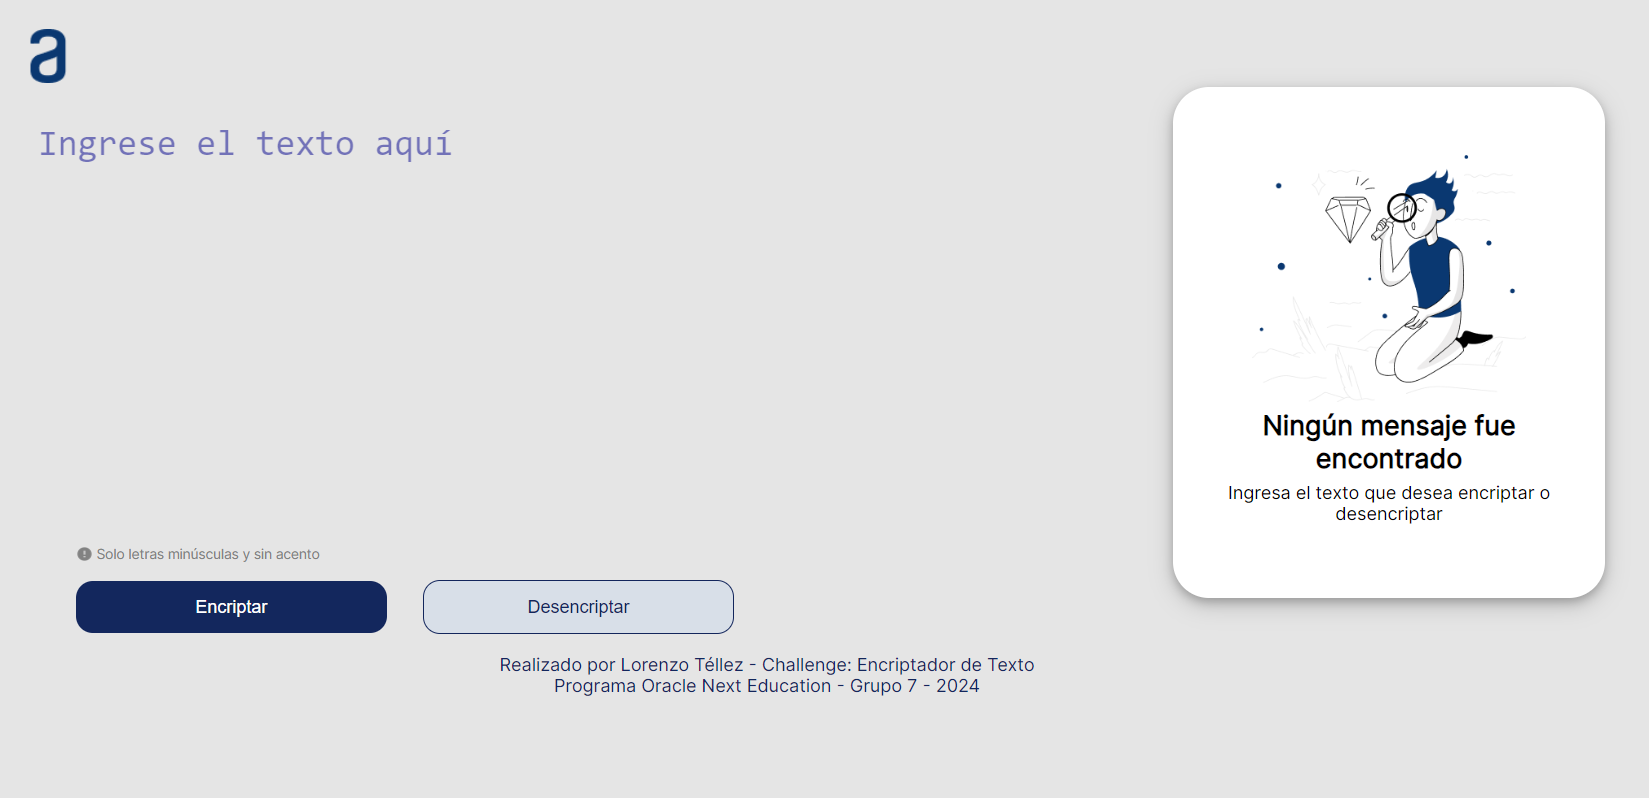
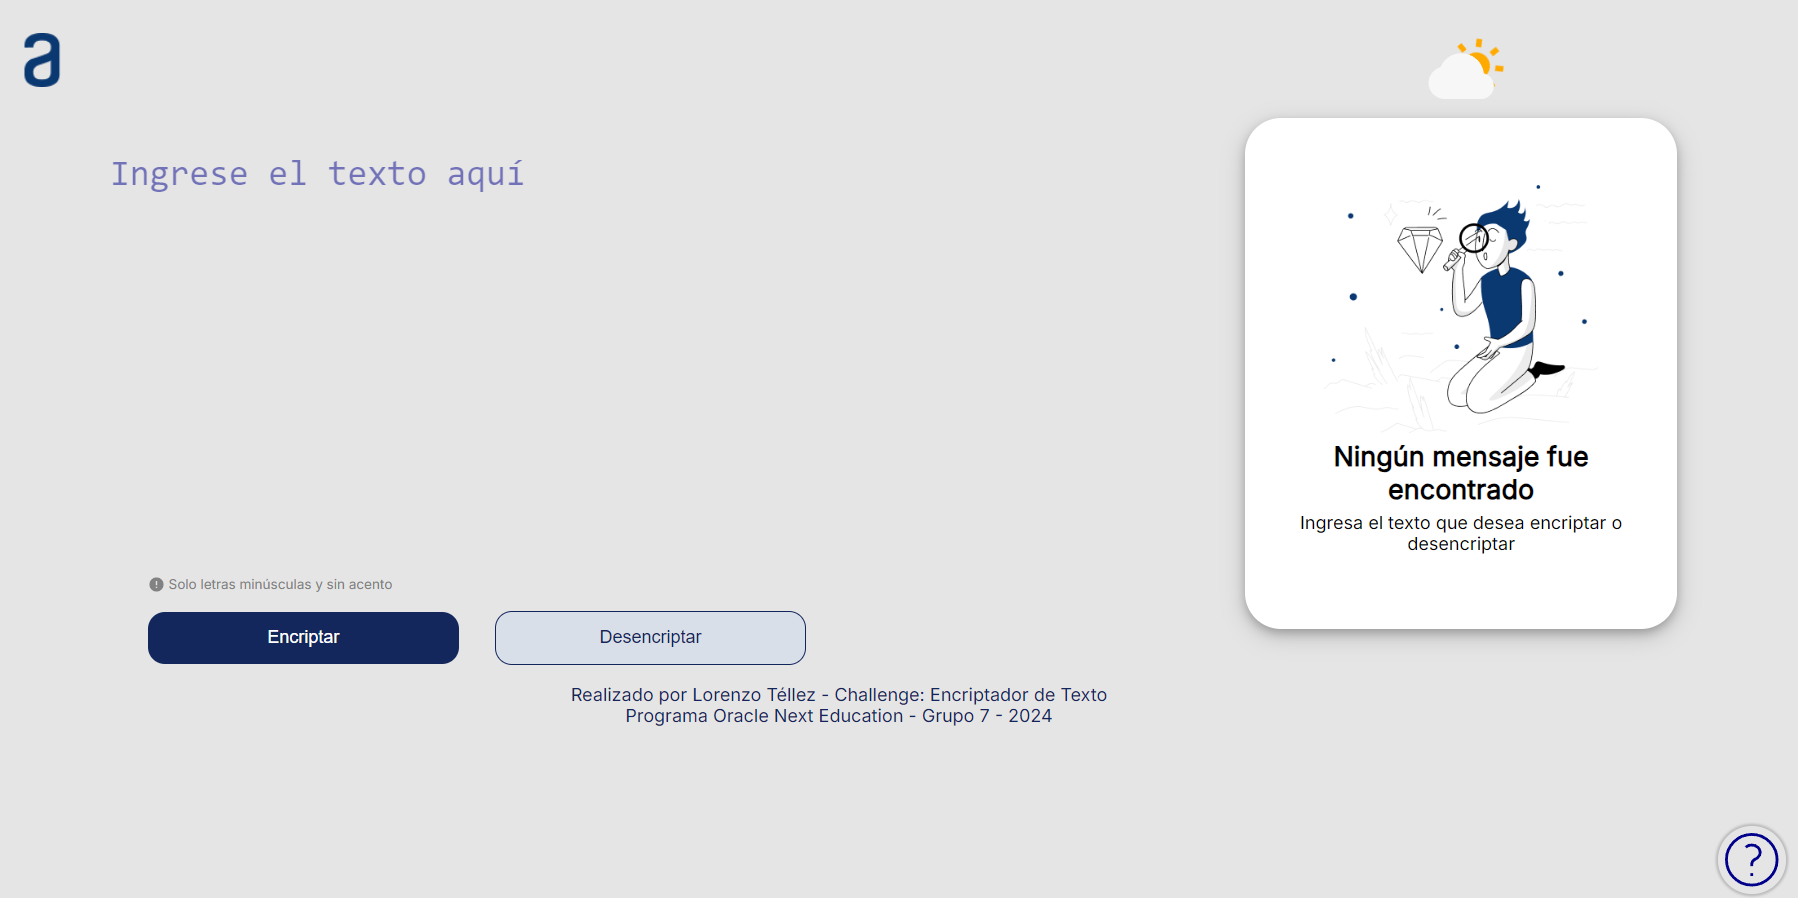
Add files via upload

diff --git a/index.html b/index.html
@@ -1,14 +1,17 @@
 <!DOCTYPE html>
-<html lang="es" data-theme="dark">
+<html lang="es" data-theme="light">
+
 <head>
     <meta charset="UTF-8">
     <meta name="viewport" content="width=device-width">
     <title>Encriptador Alura - Lorenzo Téllez</title>
     <link rel="stylesheet" href="styles/style.css">
     <link rel="icon" href="assets/aluraLogo.png" type="image/icon type">
-    <link href="https://fonts.googleapis.com/css2?family=Inter&family=Montserrat:wght@300&display=swap" rel="stylesheet">
-    <link rel="stylesheet" href="https://cdn.jsdelivr.net/npm/driver.js@1.0.1/dist/driver.css"/>
+    <link href="https://fonts.googleapis.com/css2?family=Inter&family=Montserrat:wght@300&display=swap"
+        rel="stylesheet">
+    <link rel="stylesheet" href="https://cdn.jsdelivr.net/npm/driver.js@1.0.1/dist/driver.css" />
 </head>
+
 <body class="preload">
     <div id="preloader_4">
         <span></span>
@@ -26,10 +29,15 @@
         <div class="main__theme">
 
             <figure class="main__light">
-                <svg width="80" height="80" viewBox="0 0 409 320" fill="none" xmlns="http://www.w3.org/2000/svg" class="main__img">
+                <svg width="80" height="80" viewBox="0 0 409 320" fill="none" xmlns="http://www.w3.org/2000/svg"
+                    class="main__img">
                     <g id="light">
-                    <path id="sun" d="M189.855 146.333C189.855 180.386 217.556 208.086 251.608 208.086C285.66 208.086 313.361 180.386 313.361 146.333C313.361 112.281 285.66 84.5803 251.608 84.5803C217.556 84.5803 189.855 112.281 189.855 146.333ZM239.25 232.667H263.917V269.667H239.25V232.667ZM239.25 23H263.917V60H239.25V23ZM128.25 134H165.25V158.667H128.25V134ZM337.917 134H374.917V158.667H337.917V134ZM173.106 242.262L155.667 224.823L181.826 198.664L199.265 216.103L173.106 242.262ZM303.901 76.576L330.073 50.4047L347.512 67.844L321.341 94.0153L303.901 76.576ZM181.826 94.0277L155.667 67.8563L173.119 50.417L199.265 76.5883L181.826 94.0277ZM347.512 224.823L330.073 242.262L303.901 216.091L321.341 198.651L347.512 224.823Z" fill="#FFAA00"/>
-                    <path id="cloud" d="M286.042 179.291C279.542 128.091 235.705 88.375 182.75 88.375C141.755 88.375 106.144 112.339 89.8854 150.106C57.9339 159.656 34 189.823 34 222.25C34 263.26 67.3646 296.625 108.375 296.625H272C304.814 296.625 331.5 269.939 331.5 237.125C331.477 223.791 326.987 210.849 318.748 200.366C310.508 189.883 298.993 182.463 286.042 179.291Z" fill="#F7F7F7"/>
+                        <path id="sun"
+                            d="M189.855 146.333C189.855 180.386 217.556 208.086 251.608 208.086C285.66 208.086 313.361 180.386 313.361 146.333C313.361 112.281 285.66 84.5803 251.608 84.5803C217.556 84.5803 189.855 112.281 189.855 146.333ZM239.25 232.667H263.917V269.667H239.25V232.667ZM239.25 23H263.917V60H239.25V23ZM128.25 134H165.25V158.667H128.25V134ZM337.917 134H374.917V158.667H337.917V134ZM173.106 242.262L155.667 224.823L181.826 198.664L199.265 216.103L173.106 242.262ZM303.901 76.576L330.073 50.4047L347.512 67.844L321.341 94.0153L303.901 76.576ZM181.826 94.0277L155.667 67.8563L173.119 50.417L199.265 76.5883L181.826 94.0277ZM347.512 224.823L330.073 242.262L303.901 216.091L321.341 198.651L347.512 224.823Z"
+                            fill="#FFAA00" />
+                        <path id="cloud"
+                            d="M286.042 179.291C279.542 128.091 235.705 88.375 182.75 88.375C141.755 88.375 106.144 112.339 89.8854 150.106C57.9339 159.656 34 189.823 34 222.25C34 263.26 67.3646 296.625 108.375 296.625H272C304.814 296.625 331.5 269.939 331.5 237.125C331.477 223.791 326.987 210.849 318.748 200.366C310.508 189.883 298.993 182.463 286.042 179.291Z"
+                            fill="#F7F7F7" />
                     </g>
                 </svg>
             </figure>
@@ -37,10 +45,18 @@
             <figure class="main__dark">
                 <svg width="80" height="80" viewBox="0 0 409 320" fill="none" xmlns="http://www.w3.org/2000/svg">
                     <g id="dark">
-                    <path id="moon" d="M240.43 143.094C225.921 128.579 216.039 110.088 212.034 89.9583C208.03 69.8287 210.082 48.9637 217.932 30C195.551 34.4058 174.993 45.3873 158.888 61.54C113.855 106.573 113.855 179.593 158.888 224.626C203.932 269.67 276.941 269.658 321.985 224.626C338.133 208.521 349.114 187.969 353.525 165.593C334.561 173.441 313.696 175.493 293.567 171.488C273.438 167.484 254.947 157.603 240.43 143.094Z" fill="#FFC82F"/>
-                    <path id="star1" d="M335.081 266.73C334.987 266.452 334.813 266.208 334.582 266.028C334.35 265.847 334.071 265.739 333.779 265.716L325.227 265.036L321.527 256.844C321.409 256.581 321.217 256.357 320.975 256.199C320.732 256.042 320.45 255.958 320.161 255.958C319.872 255.958 319.589 256.041 319.346 256.198C319.104 256.355 318.912 256.579 318.794 256.843L315.093 265.036L306.542 265.716C306.254 265.738 305.98 265.843 305.751 266.018C305.521 266.193 305.347 266.43 305.249 266.701C305.151 266.972 305.134 267.266 305.198 267.547C305.263 267.827 305.407 268.084 305.613 268.285L311.933 274.446L309.698 284.124C309.63 284.417 309.652 284.723 309.76 285.004C309.869 285.284 310.059 285.525 310.306 285.696C310.554 285.867 310.847 285.96 311.148 285.962C311.448 285.964 311.743 285.876 311.993 285.709L320.16 280.264L328.328 285.709C328.583 285.879 328.885 285.966 329.191 285.959C329.498 285.953 329.795 285.852 330.043 285.672C330.291 285.491 330.477 285.239 330.577 284.949C330.678 284.659 330.687 284.345 330.603 284.05L327.86 274.45L334.664 268.327C335.109 267.925 335.273 267.298 335.081 266.73Z" fill="#FFC82F"/>
-                    <path id="star2" d="M299.624 67.7715C299.53 67.4938 299.356 67.2498 299.125 67.0696C298.893 66.8894 298.614 66.7809 298.322 66.7575L289.77 66.078L286.07 57.8865C285.952 57.6226 285.76 57.3985 285.518 57.2412C285.275 57.0839 284.993 57.0002 284.704 57C284.415 56.9998 284.132 57.0833 283.889 57.2403C283.647 57.3974 283.455 57.6213 283.337 57.885L279.636 66.078L271.085 66.7575C270.797 66.7803 270.523 66.8853 270.294 67.0601C270.064 67.2349 269.89 67.472 269.792 67.7431C269.694 68.0141 269.677 68.3077 269.741 68.5886C269.806 68.8695 269.95 69.1259 270.156 69.327L276.476 75.4876L274.241 85.1656C274.173 85.4586 274.195 85.7652 274.303 86.0456C274.412 86.326 274.602 86.5674 274.849 86.7383C275.097 86.9092 275.39 87.0018 275.691 87.0041C275.991 87.0064 276.286 86.9183 276.536 86.7511L284.703 81.3061L292.871 86.7511C293.126 86.9208 293.428 87.0081 293.734 87.0014C294.041 86.9947 294.338 86.8942 294.586 86.7135C294.834 86.5328 295.02 86.2806 295.12 85.9907C295.221 85.7009 295.23 85.3873 295.146 85.0921L292.403 75.4921L299.207 69.369C299.652 68.967 299.816 68.34 299.624 67.7715Z" fill="#FFC82F"/>
-                    <path id="star3" d="M83.9207 142.627C83.8264 142.349 83.6529 142.105 83.4215 141.925C83.1901 141.745 82.911 141.636 82.6187 141.613L74.0672 140.933L70.3666 132.742C70.2488 132.478 70.0571 132.254 69.8147 132.097C69.5723 131.939 69.2896 131.856 69.0006 131.855C68.7117 131.855 68.4288 131.939 68.1863 132.096C67.9437 132.253 67.7518 132.477 67.6336 132.74L63.9331 140.933L55.3815 141.613C55.0942 141.636 54.8196 141.741 54.5904 141.916C54.3612 142.09 54.1872 142.327 54.0893 142.599C53.9913 142.87 53.9735 143.163 54.0381 143.444C54.1026 143.725 54.2466 143.981 54.453 144.182L60.7726 150.343L58.5376 160.021C58.4697 160.314 58.4915 160.621 58.6 160.901C58.7085 161.181 58.8989 161.423 59.1463 161.594C59.3937 161.765 59.6868 161.857 59.9875 161.86C60.2881 161.862 60.5826 161.774 60.8326 161.607L69.0001 156.162L77.1677 161.607C77.4232 161.776 77.7245 161.864 78.0311 161.857C78.3377 161.85 78.635 161.75 78.8828 161.569C79.1306 161.388 79.3172 161.136 79.4173 160.846C79.5175 160.556 79.5265 160.243 79.4432 159.948L76.6997 150.348L83.5037 144.224C83.9492 143.822 84.1127 143.195 83.9207 142.627Z" fill="#FFC82F"/>
+                        <path id="moon"
+                            d="M240.43 143.094C225.921 128.579 216.039 110.088 212.034 89.9583C208.03 69.8287 210.082 48.9637 217.932 30C195.551 34.4058 174.993 45.3873 158.888 61.54C113.855 106.573 113.855 179.593 158.888 224.626C203.932 269.67 276.941 269.658 321.985 224.626C338.133 208.521 349.114 187.969 353.525 165.593C334.561 173.441 313.696 175.493 293.567 171.488C273.438 167.484 254.947 157.603 240.43 143.094Z"
+                            fill="#FFC82F" />
+                        <path id="star1"
+                            d="M335.081 266.73C334.987 266.452 334.813 266.208 334.582 266.028C334.35 265.847 334.071 265.739 333.779 265.716L325.227 265.036L321.527 256.844C321.409 256.581 321.217 256.357 320.975 256.199C320.732 256.042 320.45 255.958 320.161 255.958C319.872 255.958 319.589 256.041 319.346 256.198C319.104 256.355 318.912 256.579 318.794 256.843L315.093 265.036L306.542 265.716C306.254 265.738 305.98 265.843 305.751 266.018C305.521 266.193 305.347 266.43 305.249 266.701C305.151 266.972 305.134 267.266 305.198 267.547C305.263 267.827 305.407 268.084 305.613 268.285L311.933 274.446L309.698 284.124C309.63 284.417 309.652 284.723 309.76 285.004C309.869 285.284 310.059 285.525 310.306 285.696C310.554 285.867 310.847 285.96 311.148 285.962C311.448 285.964 311.743 285.876 311.993 285.709L320.16 280.264L328.328 285.709C328.583 285.879 328.885 285.966 329.191 285.959C329.498 285.953 329.795 285.852 330.043 285.672C330.291 285.491 330.477 285.239 330.577 284.949C330.678 284.659 330.687 284.345 330.603 284.05L327.86 274.45L334.664 268.327C335.109 267.925 335.273 267.298 335.081 266.73Z"
+                            fill="#FFC82F" />
+                        <path id="star2"
+                            d="M299.624 67.7715C299.53 67.4938 299.356 67.2498 299.125 67.0696C298.893 66.8894 298.614 66.7809 298.322 66.7575L289.77 66.078L286.07 57.8865C285.952 57.6226 285.76 57.3985 285.518 57.2412C285.275 57.0839 284.993 57.0002 284.704 57C284.415 56.9998 284.132 57.0833 283.889 57.2403C283.647 57.3974 283.455 57.6213 283.337 57.885L279.636 66.078L271.085 66.7575C270.797 66.7803 270.523 66.8853 270.294 67.0601C270.064 67.2349 269.89 67.472 269.792 67.7431C269.694 68.0141 269.677 68.3077 269.741 68.5886C269.806 68.8695 269.95 69.1259 270.156 69.327L276.476 75.4876L274.241 85.1656C274.173 85.4586 274.195 85.7652 274.303 86.0456C274.412 86.326 274.602 86.5674 274.849 86.7383C275.097 86.9092 275.39 87.0018 275.691 87.0041C275.991 87.0064 276.286 86.9183 276.536 86.7511L284.703 81.3061L292.871 86.7511C293.126 86.9208 293.428 87.0081 293.734 87.0014C294.041 86.9947 294.338 86.8942 294.586 86.7135C294.834 86.5328 295.02 86.2806 295.12 85.9907C295.221 85.7009 295.23 85.3873 295.146 85.0921L292.403 75.4921L299.207 69.369C299.652 68.967 299.816 68.34 299.624 67.7715Z"
+                            fill="#FFC82F" />
+                        <path id="star3"
+                            d="M83.9207 142.627C83.8264 142.349 83.6529 142.105 83.4215 141.925C83.1901 141.745 82.911 141.636 82.6187 141.613L74.0672 140.933L70.3666 132.742C70.2488 132.478 70.0571 132.254 69.8147 132.097C69.5723 131.939 69.2896 131.856 69.0006 131.855C68.7117 131.855 68.4288 131.939 68.1863 132.096C67.9437 132.253 67.7518 132.477 67.6336 132.74L63.9331 140.933L55.3815 141.613C55.0942 141.636 54.8196 141.741 54.5904 141.916C54.3612 142.09 54.1872 142.327 54.0893 142.599C53.9913 142.87 53.9735 143.163 54.0381 143.444C54.1026 143.725 54.2466 143.981 54.453 144.182L60.7726 150.343L58.5376 160.021C58.4697 160.314 58.4915 160.621 58.6 160.901C58.7085 161.181 58.8989 161.423 59.1463 161.594C59.3937 161.765 59.6868 161.857 59.9875 161.86C60.2881 161.862 60.5826 161.774 60.8326 161.607L69.0001 156.162L77.1677 161.607C77.4232 161.776 77.7245 161.864 78.0311 161.857C78.3377 161.85 78.635 161.75 78.8828 161.569C79.1306 161.388 79.3172 161.136 79.4173 160.846C79.5175 160.556 79.5265 160.243 79.4432 159.948L76.6997 150.348L83.5037 144.224C83.9492 143.822 84.1127 143.195 83.9207 142.627Z"
+                            fill="#FFC82F" />
                     </g>
                 </svg>
             </figure>
@@ -53,40 +69,47 @@
 
     <main class="principal">
 
-        <textarea name="text" id="texto_usuario" class="texto texto2" cols="35" rows="10" placeholder="Ingrese el texto aquí"></textarea>
+        <textarea name="text" id="texto_usuario" class="texto texto2" cols="30" rows="10"
+            placeholder="Ingrese el texto aquí"></textarea>
 
         <div class="resultado" id="resultado">
-            <section class="resultado_mensaje" id="resultado_mensaje">
+            <section class="aside" id="resultado_mensaje">
                 <h1><img src="assets/Muñeco.png" alt="Imágen no encontrada" id="muneco"></h1>
                 <h2 id="mensaje_inicial" class="resultado_inicial">Ningún mensaje fue encontrado</h2>
-                <p id="mensaje_inicial_2" class="resultado_inicial_2">Ingresa el texto que desea encriptar o desencriptar</p>
+                <p id="mensaje_inicial_2" class="resultado_inicial_2">Ingresa el texto que desea encriptar o
+                    desencriptar</p>
             </section>
-            
+
             <section>
                 <textarea name="text" id="texto_resultado" class="texto" cols="50" rows="13" readonly></textarea>
                 <input type="submit" value="Copiar" class="copiar" id="copiar">
+                <input type="submit" value="Limpiar" class="limpiar" id="limpiar" style="display: none;">
             </section>
+
         </div>
 
         <div>
             <section class="botones">
-                <p class="advertencia"><img src="assets/icono.png" alt="Advertencia" width="15" height="15"> Solo letras minúsculas y sin acento</p>
+                <p class="advertencia"><img src="assets/icono.png" alt="Advertencia" width="15" height="15"> Solo letras
+                    minúsculas y sin acento</p>
                 <input type="submit" value="Encriptar" class="encriptar" id="encriptar">
                 <input type="submit" value="Desencriptar" class="desencriptar" id="desencriptar">
             </section>
         </div>
 
-        
+
     </main>
 
     <footer>
         <button class="btn-help" id="btn-help">
-            <svg xmlns="http://www.w3.org/2000/svg" fill="none" viewBox="0 0 24 24" strokeWidth={1.5} stroke="currentColor" className="size-6">
-                <path strokeLinecap="round" strokeLinejoin="round" d="M9.879 7.519c1.171-1.025 3.071-1.025 4.242 0 1.172 1.025 1.172 2.687 0 3.712-.203.179-.43.326-.67.442-.745.361-1.45.999-1.45 1.827v.75M21 12a9 9 0 1 1-18 0 9 9 0 0 1 18 0Zm-9 5.25h.008v.008H12v-.008Z" />
-            </svg>              
+            <svg xmlns="http://www.w3.org/2000/svg" fill="none" viewBox="0 0 24 24" strokeWidth={1.5}
+                stroke="currentColor" className="size-6">
+                <path strokeLinecap="round" strokeLinejoin="round"
+                    d="M9.879 7.519c1.171-1.025 3.071-1.025 4.242 0 1.172 1.025 1.172 2.687 0 3.712-.203.179-.43.326-.67.442-.745.361-1.45.999-1.45 1.827v.75M21 12a9 9 0 1 1-18 0 9 9 0 0 1 18 0Zm-9 5.25h.008v.008H12v-.008Z" />
+            </svg>
         </button>
 
-        <p>Realizado por Lorenzo Téllez - Challenge: Encriptador de Texto </p> 
+        <p>Realizado por Lorenzo Téllez - Challenge: Encriptador de Texto </p>
         <p>Programa Oracle Next Education - Grupo 7 - 2024</p>
     </footer>
 
@@ -96,8 +119,9 @@
             <p id="modal-message"></p>
         </section>
     </div>
-    
+
     <script src="https://cdn.jsdelivr.net/npm/driver.js@1.0.1/dist/driver.js.iife.js"></script>
     <script src="script.js"></script>
 </body>
+
 </html>

diff --git a/script.js b/script.js
@@ -7,36 +7,34 @@ document.addEventListener('DOMContentLoaded', function () {
     desencriptar.onclick = desencriptarMensaje;
     copiar.onclick = copiarTexto;
 
-    // Ocultar preloader después de 5 segundos
     setTimeout(() => {
         document.getElementById('preloader_4').style.display = 'none';
-        document.body.classList.remove('preload'); // Elimina la clase de preload para mostrar el contenido principal
-        document.querySelector('.principal').style.display = 'block'; // Muestra el contenido principal
+        document.body.classList.remove('preload');
+        document.querySelector('.principal').style.display = 'block';
     }, 2500);
-
 });
 
 function mostrarMensajeModal(mensaje) {
     let modal = document.getElementById("modal");
-    let span = document.getElementsByClassName("close")[0];
-    let modalMessage = document.getElementById("modal-message");
+    let cerrar = document.getElementsByClassName("close")[0];
+    let modalMensaje = document.getElementById("modal-message");
 
-    modalMessage.textContent = mensaje;
+    modalMensaje.textContent = mensaje;
     modal.style.display = "block";
 
-    span.onclick = function() {
+    cerrar.onclick = function() {
         modal.style.display = "none";
     }
 
-    window.onclick = function(event) {
-        if (event.target == modal) {
+    window.onclick = function(evento) {
+        if (evento.target == modal) {
             modal.style.display = "none";
         }
     }
 }
 
 function mostrar(mensaje) {
-    document.querySelector("#texto_resultado").innerHTML = mensaje;
+    document.querySelector("#texto_resultado").textContent = mensaje;
 }
 
 function actualizarPantalla() {
@@ -58,7 +56,7 @@ function encriptarMensaje() {
     }
 
     if (!esMensajeValido(mensaje)) {
-        mostrarMensajeModal("Debe de ingresar un mensaje en minúsculas y sin acentos");
+        mostrarMensajeModal("El mensaje solo puede contener letras minusculas sin acentos ni caracteres especiales");
         return;
     }
 
@@ -95,12 +93,12 @@ function desencriptarMensaje() {
     let letras = ['a', 'e', 'i', 'o', 'u'];
 
     if (mensaje === "") {
-        mostrarMensajeModal("Debe escribir un mensaje para poder decencriptarlo");
+        mostrarMensajeModal("Debe escribir un mensaje para poder desencriptarlo");
         return;
     }
 
     if (!esMensajeValido(mensaje)) {
-        mostrarMensajeModal("Debe de ingresar un mensaje en minúsculas y sin acentos");
+        mostrarMensajeModal("El mensaje solo puede contener letras minusculas sin acentos ni caracteres especiales");
         return;
     }
 
@@ -117,15 +115,14 @@ function copiarTexto() {
     let texto = document.querySelector("#texto_resultado").textContent;
     navigator.clipboard.writeText(texto).then(() => {
         mostrarMensajeModal("Texto copiado al portapapeles");
-    }).catch(err => {
-        mostrarMensajeModal("Error al copiar texto: ", err);
+    }).catch(error => {
+        mostrarMensajeModal("Error al copiar texto: " + error);
     });
 }
 
 function esMensajeValido(mensaje) {
-    return mensaje !== "" && !/[A-Zá-úÁ-Ú]/.test(mensaje) && mensaje.length > 0;
+    return /^[a-z 0-9]+$/.test(mensaje);
 }
-
 
 let inicioTour = () => {
     let driver = window.driver.js.driver;
@@ -133,19 +130,17 @@ let inicioTour = () => {
     let driverObj = driver({
         showProgress: true,
         steps: [
-          { element: '#texto_usuario', popover: { title: 'Campo de Texto', description: 'Escribe aquí el texto que deseas encriptar o desencriptar.' } },
-          { element: '#encriptar', popover: { title: 'Botón Encriptar', description: 'Presiona este botón para encriptar el texto que escribiste.', } },
-          { element: '#desencriptar', popover: { title: 'Botón Desencriptar', description: 'Presiona este botón para desencriptar el texto que escribiste.' } },
-          { element: '#resultado', popover: { title: 'Resultado del Texto', description: 'Aquí se mostrará el resultado del texto encriptado o desencriptado.' } },
-          { popover: { title: '¡Enhorabuena!', description: 'Has completado el recorrido. Ahora estás listo para encriptar y desencriptar tus textos con facilidad. ¡Recuerda que debes de ingresar textos en minúsculas y sin acentos!' } }
+          { element: '#texto_usuario', popover: { title: 'Campo de Texto', description: 'Escribe aqui el texto que deseas encriptar o desencriptar.' } },
+          { element: '#encriptar', popover: { title: 'Boton Encriptar', description: 'Presiona este boton para encriptar el texto que escribiste.', } },
+          { element: '#desencriptar', popover: { title: 'Boton Desencriptar', description: 'Presiona este boton para desencriptar el texto que escribiste. Recuerda que debes ingresar un texto ya encriptado!' } },
+          { element: '#resultado', popover: { title: 'Resultado del Texto', description: 'Aqui se mostrara el resultado del texto encriptado o desencriptado.' } },
+          { popover: { title: 'Enhorabuena!', description: 'Has completado el recorrido. Ahora estas listo para encriptar y desencriptar tus textos con facilidad. Recuerda que debes ingresar textos en minusculas y sin acentos!' } }
         ],
-        doneBtnText: 'Hecho', // Cambia el texto del botón "Done"
-        nextBtnText: 'Siguiente', // Cambia el texto del botón "Next"
-        prevBtnText: 'Anterior', // Cambia el texto del botón "Previous"
-        closeBtnText: 'Cerrar' // Cambia el texto del botón "Close"
+        doneBtnText: 'Hecho',
+        nextBtnText: 'Siguiente',
+        prevBtnText: 'Anterior',
+        closeBtnText: 'Cerrar'
     });
-
-    
 
     driverObj.drive();
 }

diff --git a/styles/style.css b/styles/style.css
@@ -271,7 +271,7 @@ textarea:focus{
 
 #texto_resultado{
     width: 100%;
-    height: 90%;
+    height: 329px;
     font-size: 24px;
     color: #808080;
     text-align: left;
@@ -288,7 +288,7 @@ textarea:focus{
     visibility: visible;
 }
 
-.copiar{
+.copiar {
     margin: 2%;
     width: 40%;
     padding: 3% 0;
